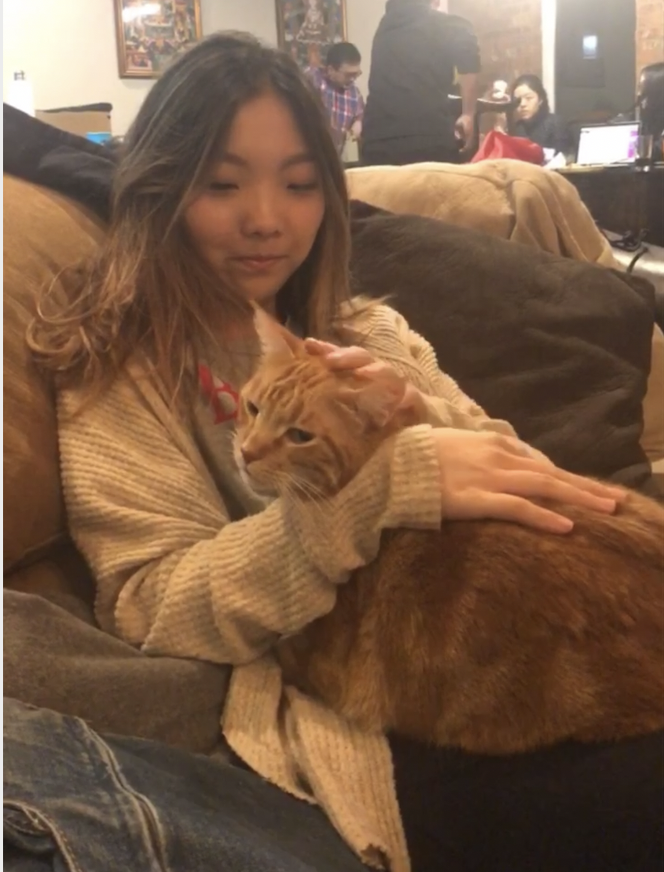
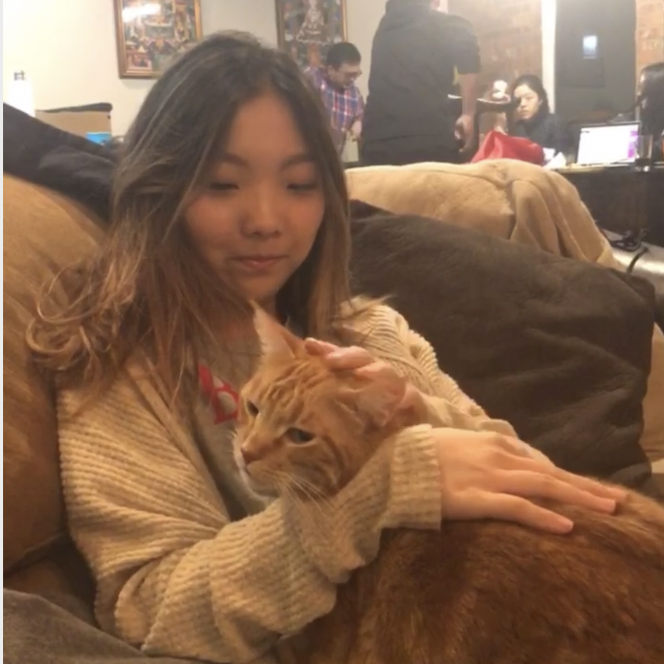
Made bio cards on about page equal height and made pictures same size (fixes #38)

diff --git a/frontend/src/component/UserBio/UserBio.js b/frontend/src/component/UserBio/UserBio.js
@@ -10,7 +10,8 @@ function UserBio(props) {
           style={{
             backgroundColor: '#2bc4ad',
             color: 'white',
-            borderRadius: '2%'
+            borderRadius: '2%',
+            minHeight: 420
           }}
         >
           <div style={{ padding: '2em' }}>

diff --git a/frontend/src/screen/About/assets/index.js b/frontend/src/screen/About/assets/index.js
@@ -1,5 +1,5 @@
 import nathan from './NathanHoang.jpeg';
-import derrin from './DerrinNgo.JPG';
+import derrin from './DerrinNgo.png';
 import sitong from './Sitong.png';
 import abhinav from './Abhinav.png';
 import rohan from './rohan.PNG';
